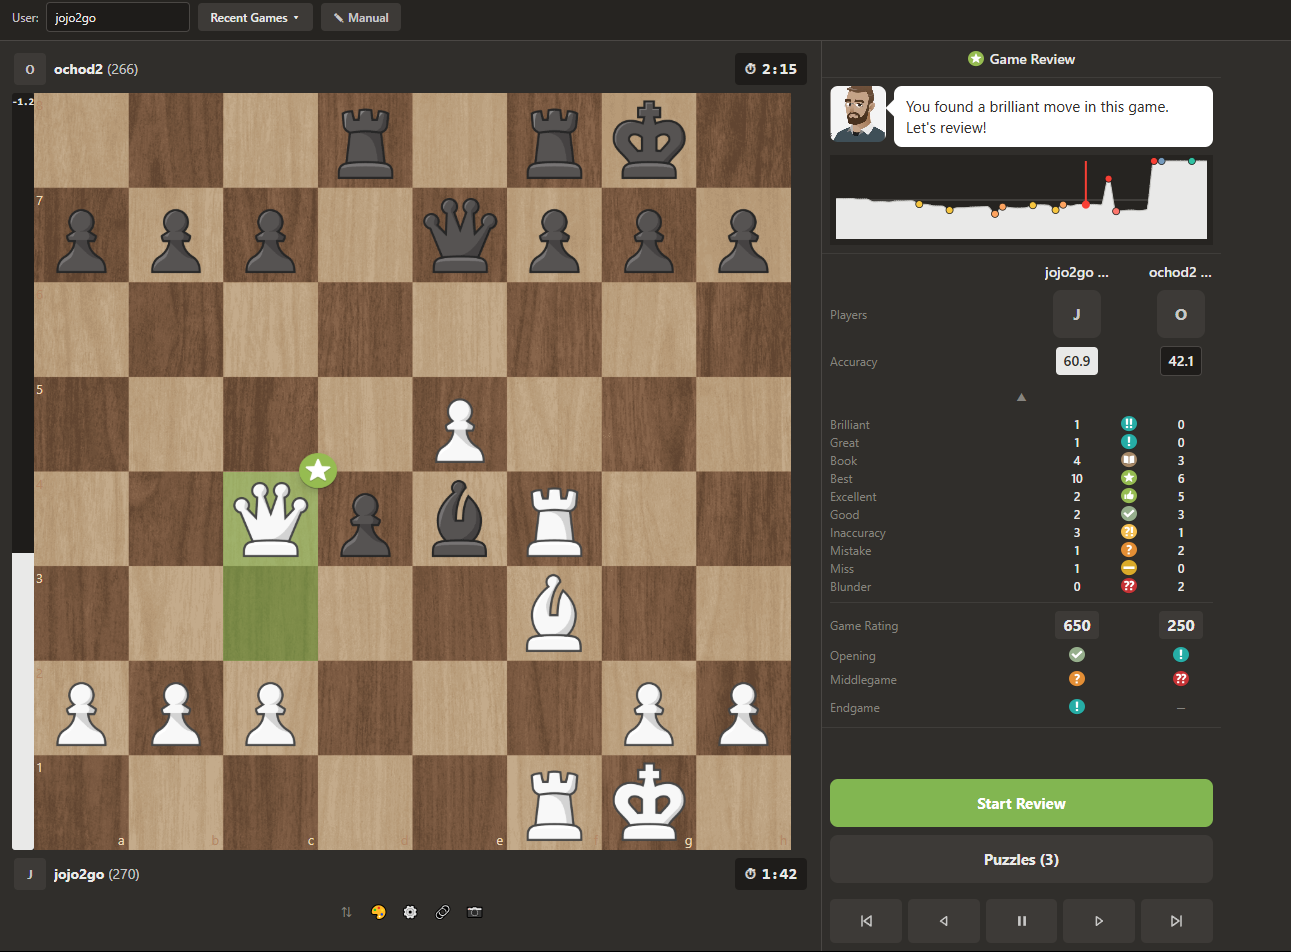
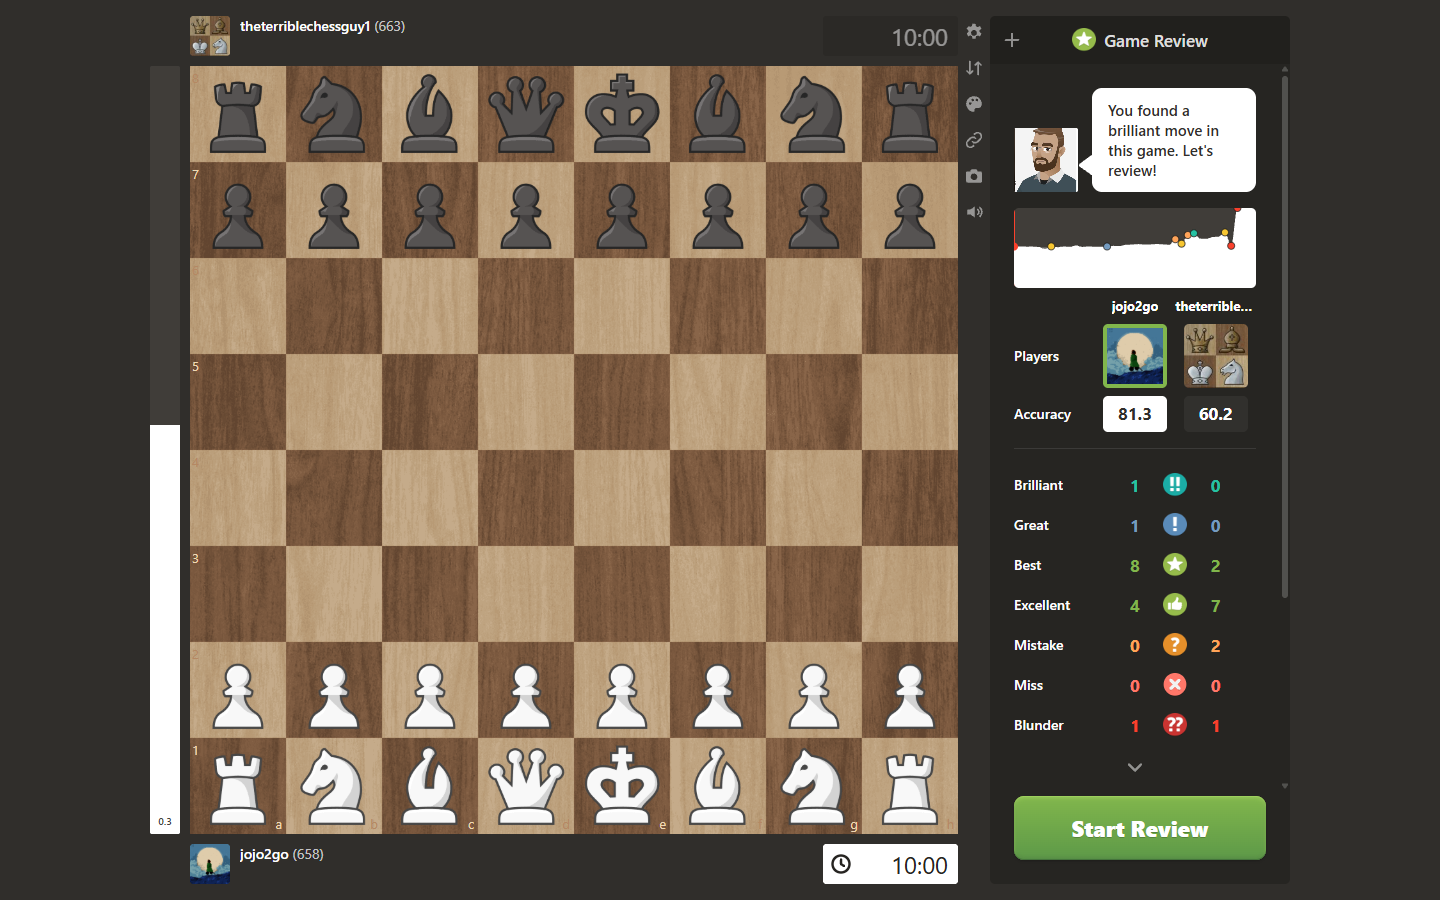
docs(readme): new screenshots of the current design and a Brilliant move (#21)
Replace the old July screenshots with the current desktop and phone
layout. The review shot shows 15.Bxh6, a bishop sacrifice from a
parity-verified game, instead of a blunder. Update the feature list,
the extension quick start and the project structure.

diff --git a/README.md b/README.md
@@ -1,14 +1,26 @@
 # Chess Game Review
 
-A tool that analyzes your chess games — similar to chess.com's "Game Review" feature. It shows you which moves were good, which were bad, where you went wrong, and how to improve.
+A tool that analyzes your chess games — similar to chess.com's "Game Review" feature. It shows you which moves were good, which were bad, where you went wrong, and how to improve. Stockfish runs right in your browser, so there's no account and no daily review limit.
+
+**Try it:** [chess-game-review-drab.vercel.app](https://chess-game-review-drab.vercel.app)
 
 <p align="center">
-  <img src="docs/images/game_summary.png" alt="Summary of a game with accuracy, best moves, and mistakes" width="80%">
+  <img src="docs/images/game_summary.png" alt="Game summary: coach, evaluation graph, accuracy for both players and a count of every move class" width="80%">
 </p>
 
 <p align="center">
-  <img src="docs/images/blunder.png" alt="The tool flags a blunder directly on the board" width="80%">
+  <img src="docs/images/brilliant.png" alt="Guided review at 15.Bxh6, a bishop sacrifice the tool rates as Brilliant" width="80%">
 </p>
+
+<p align="center"><em>15.Bxh6!! — a bishop sacrifice on h6 that opens Black's king, rated Brilliant in the guided review.</em></p>
+
+<p align="center">
+  <img src="docs/images/phone_summary.png" alt="Phone layout: full-screen game summary" width="32%">
+  &nbsp;
+  <img src="docs/images/phone_brilliant.png" alt="Phone layout: guided review at the Brilliant move" width="32%">
+</p>
+
+<p align="center"><em>On phones the layout follows the chess.com app.</em></p>
 
 
 ---
@@ -21,7 +33,7 @@ The fastest way to use this tool is the Chrome extension by itself — no instal
 2. Open `chrome://extensions` in Chrome
 3. Turn on **"Developer mode"** in the top right
 4. Click **"Load unpacked"** and select the `extension/` folder
-5. Open any finished game on chess.com and click the new extension icon — the game opens automatically in the analysis tool
+5. Finish a game on chess.com and click **♞ Partie analysieren** in the game-over window or the sidebar (or the extension icon) — the game opens automatically in the analysis tool
 
 There's also an even simpler option without an extension at all: a so-called **bookmarklet** (a bookmark with built-in functionality). Details in [`extension/README.md`](extension/README.md).
 
@@ -80,11 +92,15 @@ By default, the extension sends games to the hosted version of the app. To use y
 
 ## What you'll see in the analysis
 
-- **Move ratings** — every move gets a label like Best, Good, Inaccuracy, Mistake, or Blunder
-- **Evaluation graph** — a chart showing when the game swung in whose favor
-- **Accuracy %** — how precisely each side played overall
+- **Move ratings** — every move gets a label, from Brilliant (!!) and Great (!) through Best, Excellent and Good down to Inaccuracy, Mistake, Miss and Blunder
+- **Guided review** — step through the game with a coach who says what each move did and shows the engine's best move
+- **Evaluation graph and bar** — when the game swung in whose favor
+- **Accuracy % and game rating** — how precisely each side played overall
 - **Opening recognition** — which known opening was played
-- **Coaching explanations** *(optional)* — short, plain-language explanations of individual moves
+- **Retry and practice** — try a better move at the critical moments, or play the position out against the engine
+- **Puzzles from your own mistakes** — your Mistakes, Misses and Blunders become puzzles to solve
+- **Share links** — every game and move has its own link (`?game=…&move=…`)
+- **Themes** — board and piece styles to choose from
 
 ---
 
@@ -124,11 +140,11 @@ npm test        # run tests
 
 ```
 ├── src/
-│   ├── components/        # React components (board, eval, coaching, ...)
+│   ├── components/        # React components (board, summary, review, puzzles, ...)
 │   ├── lib/
-│   │   ├── analysis/      # Analysis logic (classification, accuracy)
+│   │   ├── analysis/      # Analysis logic (classification, accuracy, coach text, puzzles)
 │   │   └── engine/        # Engine communication and Web Worker
-│   ├── hooks/             # Custom hooks (useGame, useCoaching)
+│   ├── hooks/             # Custom hooks (useGame, usePuzzles, useSettings, ...)
 │   ├── data/               # Static data (openings database)
 │   ├── App.tsx
 │   └── main.tsx
@@ -137,7 +153,9 @@ npm test        # run tests
 │   ├── pieces/             # Chess piece SVGs
 │   ├── sounds/             # Move sounds
 │   └── marks/              # Classification icons
-├── extension/               # Browser extension
+├── api/                     # Serverless functions (chess.com game proxy, share push)
+├── docs/                    # iPhone setup and README screenshots
+├── extension/               # Browser extension and bookmarklet
 ├── Board&Game/              # Design assets
 └── package.json
 ```
